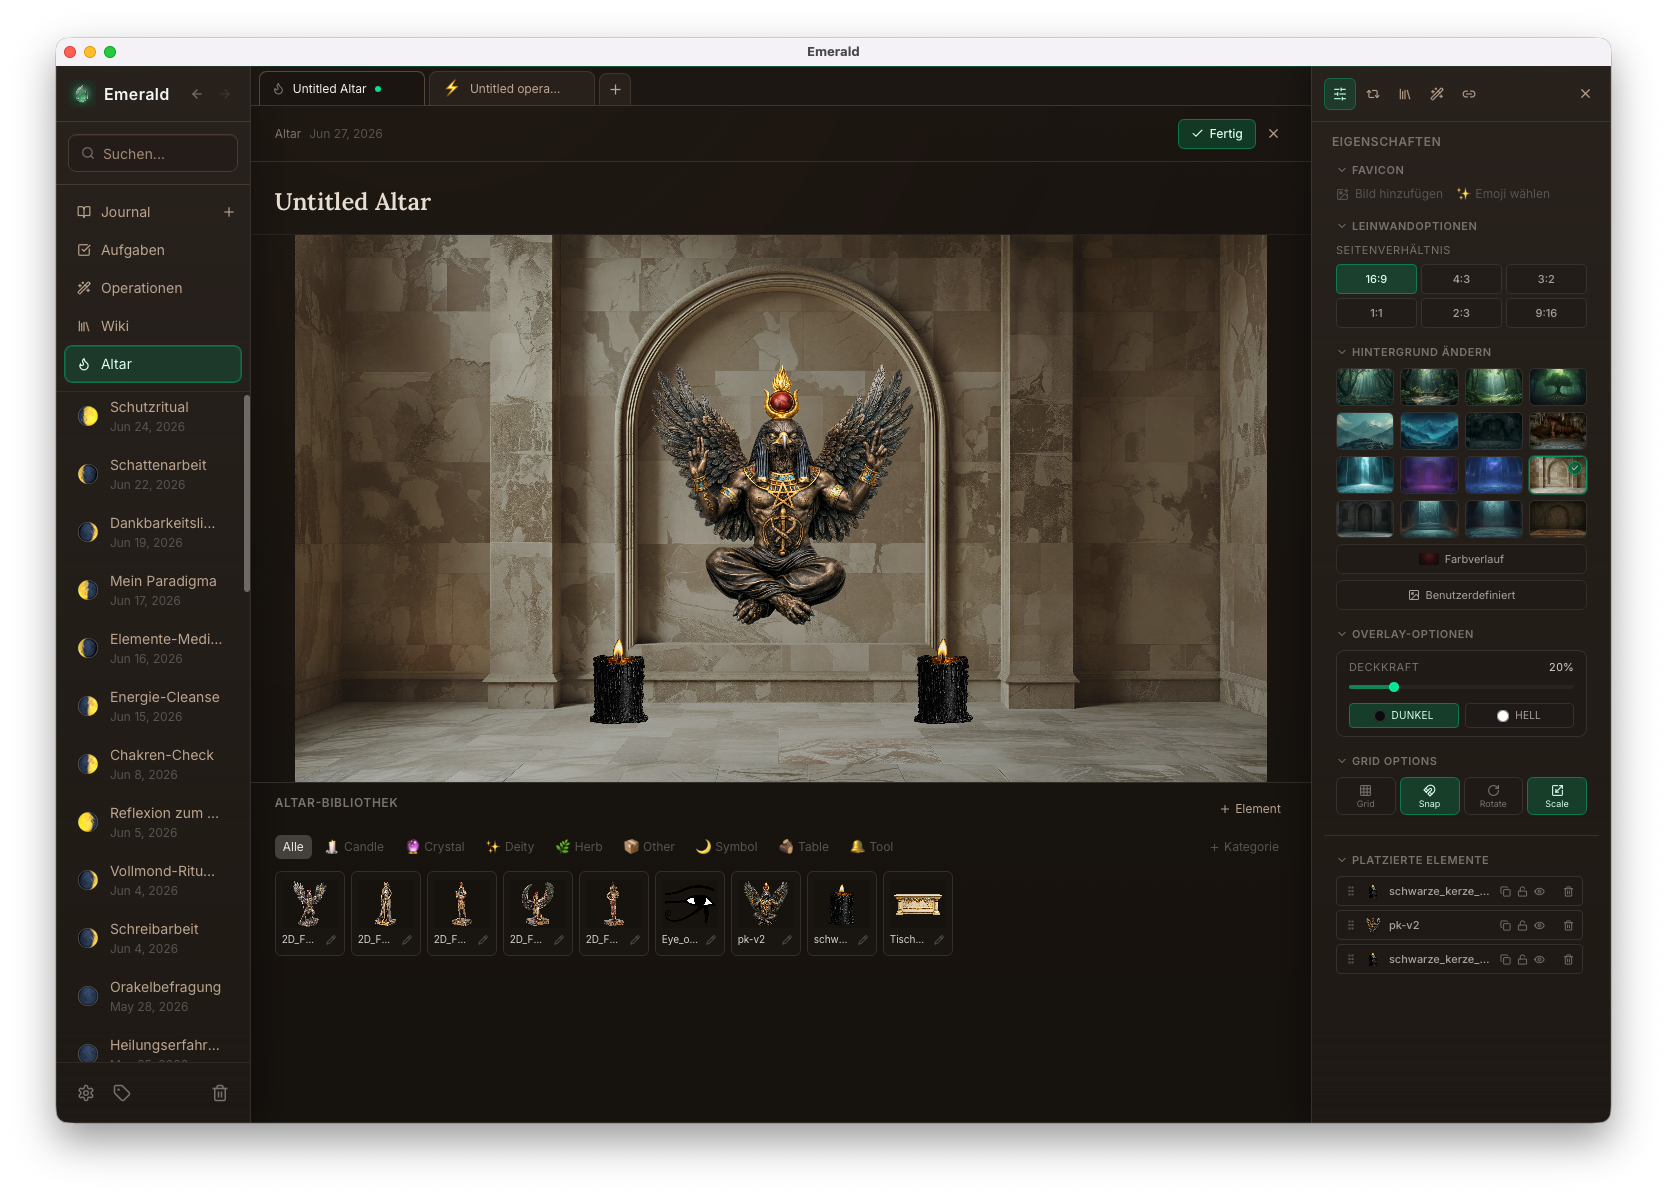
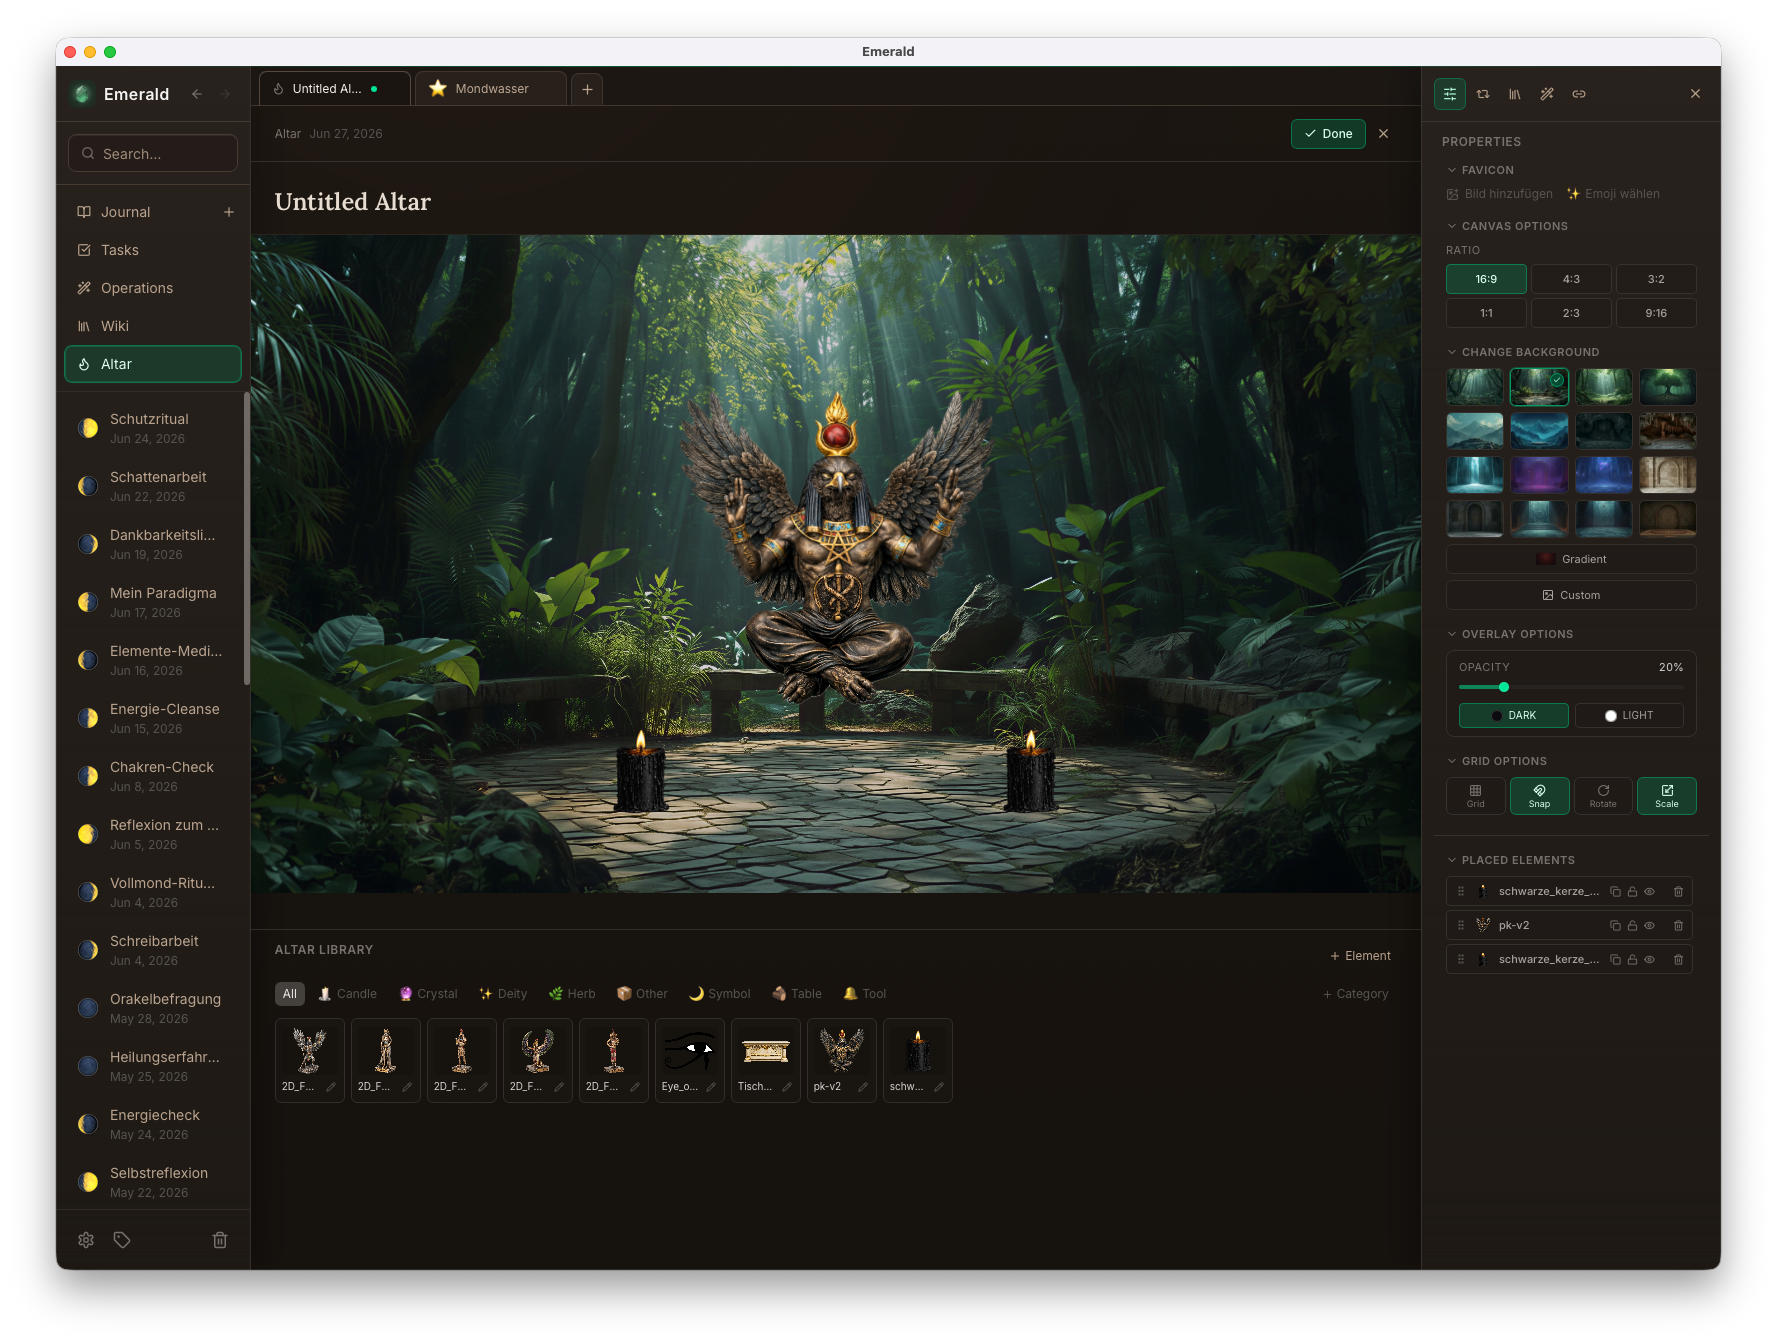
Readme Update

diff --git a/README.md b/README.md
@@ -1,13 +1,13 @@
 # Emerald
 
-> A private, local-first journal for magical practice.
+> A private workspace for your magical practice, built for practitioners of every tradition.
 
 [![License: GPL v3](https://img.shields.io/badge/License-GPLv3-blue.svg)](LICENSE)
 ![Platform](https://img.shields.io/badge/platform-macOS%20%7C%20Windows%20%7C%20Linux-lightgrey)
 ![Tauri](https://img.shields.io/badge/Tauri-2.x-FFC131?logo=tauri&logoColor=white)
 ![React](https://img.shields.io/badge/React-19-61DAFB?logo=react&logoColor=white)
 
-Emerald is a desktop app for documenting your magical practice. Write journal entries, build a personal wiki, track rituals and operations, create sigils, and arrange a virtual altar — all stored locally in a SQLite database on your machine. No account, no cloud, no tracking.
+Emerald is the private workspace for your magical practice. A journal, personal wiki, ritual tracker, sigil workshop, and virtual altar — all in one app, all on your machine. Built for practitioners of every tradition. No account, no cloud, no tracking.
 
 > [!WARNING]
 > **Early development.** Emerald is a personal project shared in the spirit of open source. It is functional and used daily, but not yet a polished release — expect rough edges, missing features, and breaking changes between versions. Use at your own risk and back up your data regularly.
@@ -21,7 +21,7 @@ Emerald is a desktop app for documenting your magical practice. Write journal en
 
 <img src="screenshots/theme_dark.png" width="49%"/> <img src="screenshots/theme_light.png" width="49%"/>
 
-<h3 align="center">Set Theme, Font, Language, Database in the Language. Export / Import your Data.</h3>
+<h3 align="center">Set Theme, Font, Language and Database. Export / Import your Data.</h3>
 
 <img src="screenshots/settings_language.png" width="100%"/>
 
@@ -81,21 +81,27 @@ Emerald is a desktop app for documenting your magical practice. Write journal en
 
 ## Getting Started
 
+### Download
+
+Pre-built binaries for macOS, Windows, and Linux are on the [Releases](../../releases) page.
+
+**macOS** — The app is not notarised. Gatekeeper will block it on first launch.
+Right-click the app in Finder → **Open** → confirm. After the first approval it opens normally.
+Alternatively, run `sudo xattr -cr /Applications/Emerald.app` in Terminal.
+
+**Windows** — SmartScreen may show a warning. Click **More info → Run anyway**.
+
+### Build from source
+
 **Prerequisites:** Node.js · Rust toolchain · [Tauri prerequisites](https://tauri.app/start/prerequisites/)
 
 ```bash
 npm install
-npm run tauri:dev     # dev build — uses a separate database, title "Emerald Dev"
+npm run tauri:dev     # dev build — separate database, title "Emerald Dev"
 npm run tauri build   # production build
 ```
 
-The dev build keeps its own app identity (`com.emerald.magical-journal.dev`) and database, so it won't interfere with an installed production build.
-
-If you previously installed dependencies with `sudo`, Vite may fail with `EACCES` while writing to `node_modules/.vite-temp`. The npm scripts in this repo already use `--configLoader runner` to avoid that failure, but fixing ownership is still recommended:
-
-```bash
-sudo chown -R "$USER":staff node_modules
-```
+The dev build uses a separate app identity (`com.emerald.magical-journal.dev`) and database, so it won't interfere with an installed production build.
 
 ---
 
@@ -104,7 +110,6 @@ sudo chown -R "$USER":staff node_modules
 | Document | Description |
 |---|---|
 | [Documentation/features.md](Documentation/features.md) | Full feature guide |
-| [Documentation/altar.md](Documentation/altar.md) | Altar behavior, editing flows, and layout controls |
 | [Documentation/architecture.md](Documentation/architecture.md) | Architecture, patterns, and data flow |
 | [Documentation/database.md](Documentation/database.md) | SQLite schema and conventions |
 | [Documentation/internationalization.md](Documentation/internationalization.md) | Adding and managing translations |
